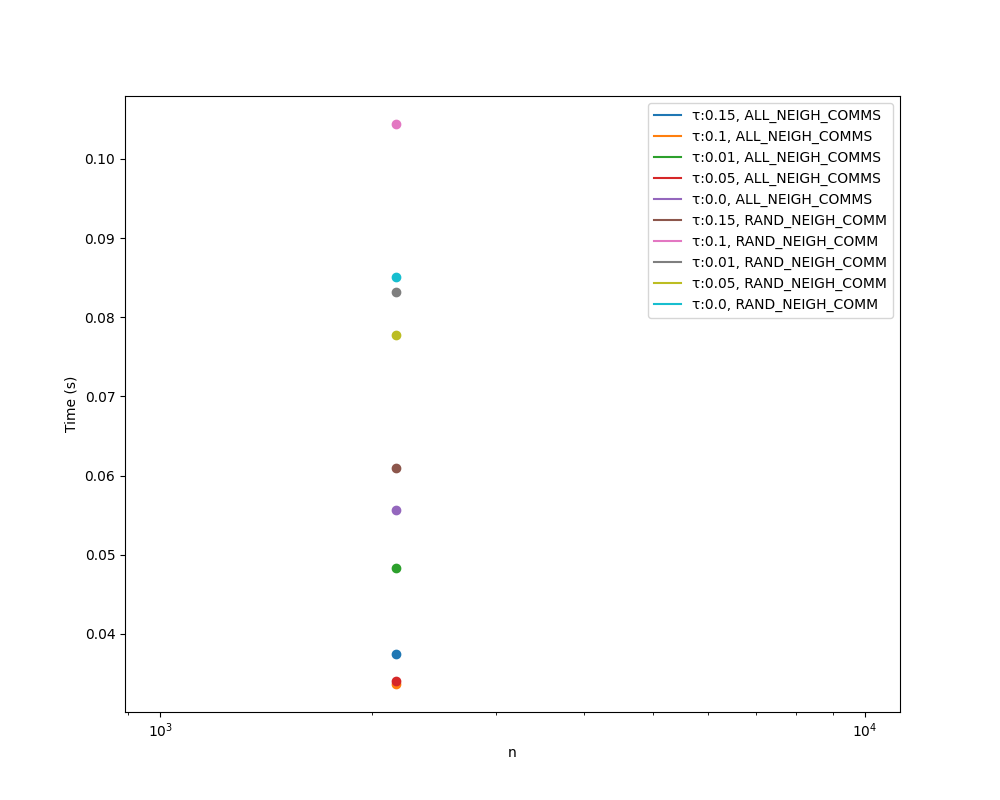
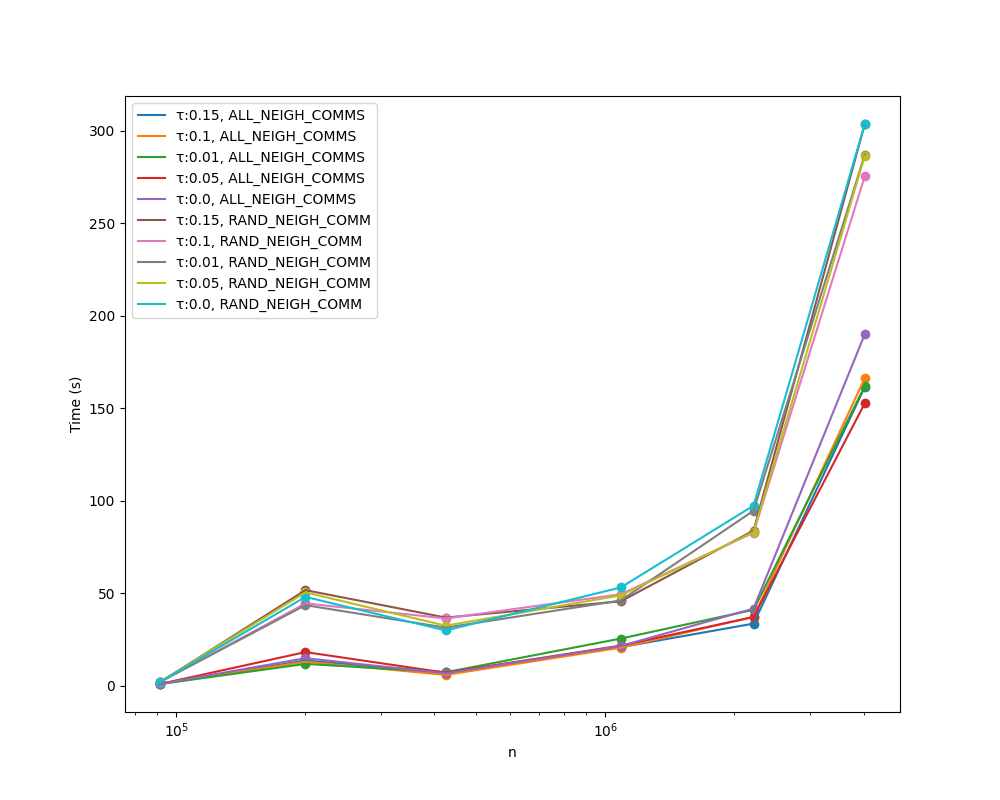
different t

diff --git a/SNACSproject.py b/SNACSproject.py
@@ -68,7 +68,7 @@ if __name__ == "__main__":
 	# 3 = RAND_COMM
 	# 4 = RAND_NEIGH_COMM (Traag's Improved Method)
 	method_dict = {1: "ALL_COMMS", 2: "ALL_NEIGH_COMMS", 3: "RAND_COMM", 4:"RAND_NEIGH_COMM"}
-	settings_list = [(0.15, 2, False), (0.1, 2, False), (0.01, 2, False), (0.05, 2, False), (0.0, 2, False), (0.15, 4, False), (0.1, 4, False), (0.01, 4, False), (0.05, 4, False), (0.0, 4, False)]#threshold, comm_select, leaf_node_exclusion
+	settings_list = [(0.025, 2, False), (0.1, 2, False), (0.075, 2, False), (0.05, 2, False), (0.0, 2, False), (0.025, 4, False), (0.1, 4, False), (0.075, 4, False), (0.05, 4, False), (0.0, 4, False)]#threshold, comm_select, leaf_node_exclusion
 	networks = [readNetwork("rec-amazon.tsv"), readNetwork("soc-academia.tsv"), readNetwork("rt-higgs.tsv"), readNetwork("inf-roadNet-PA.tsv"), readNetwork("inf-netherlands_osm.tsv", False), readNetwork("venturiLevel3.tsv", False)]#
 	n_settings = len(settings_list)
 	ind = np.arange(len(networks))
